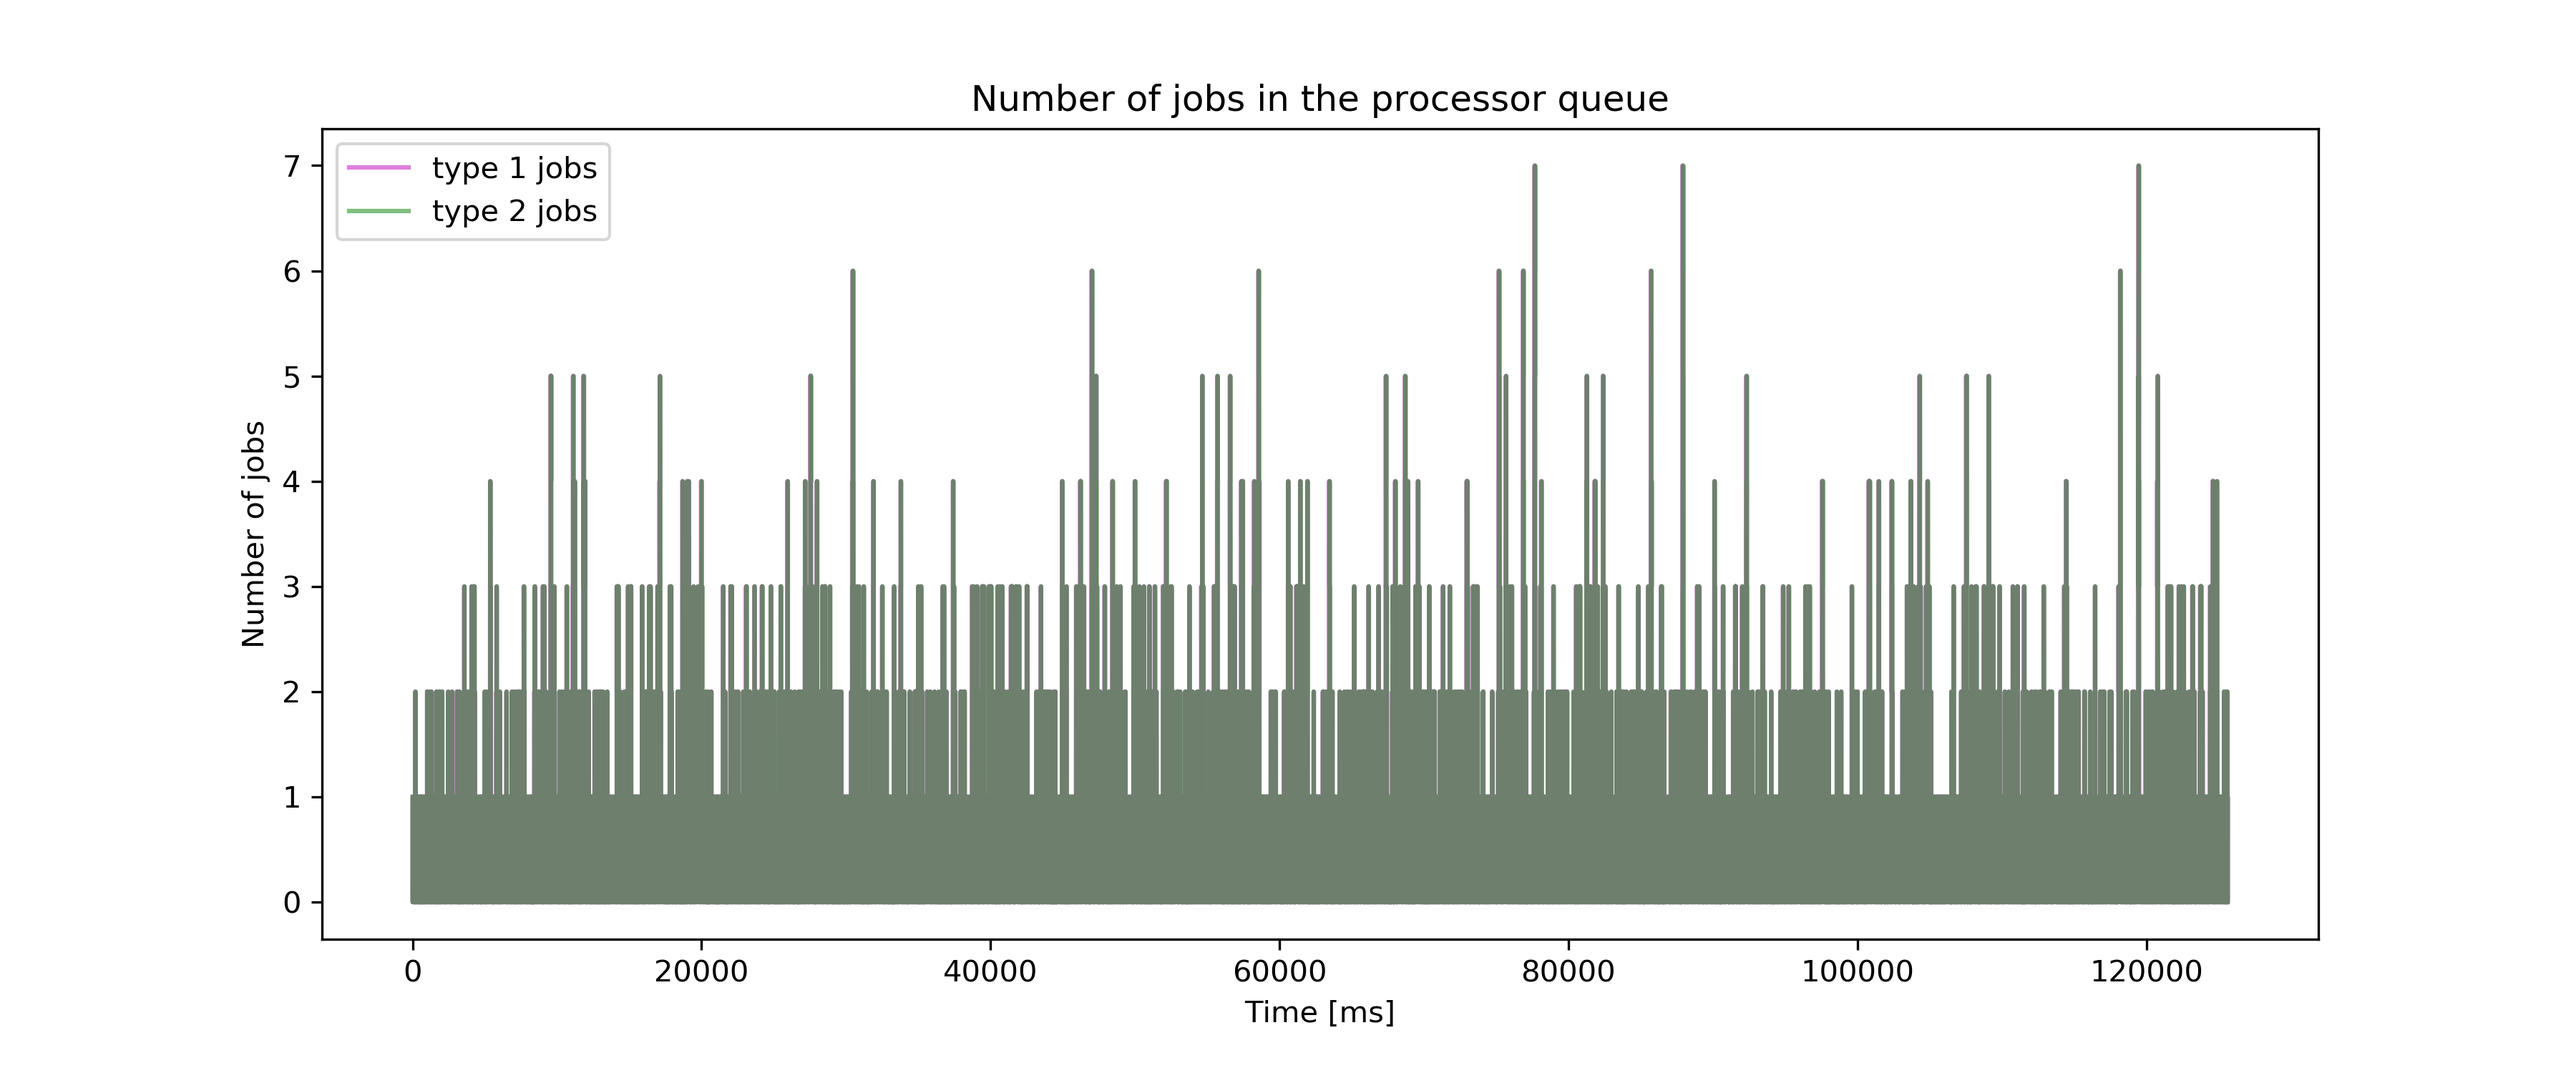
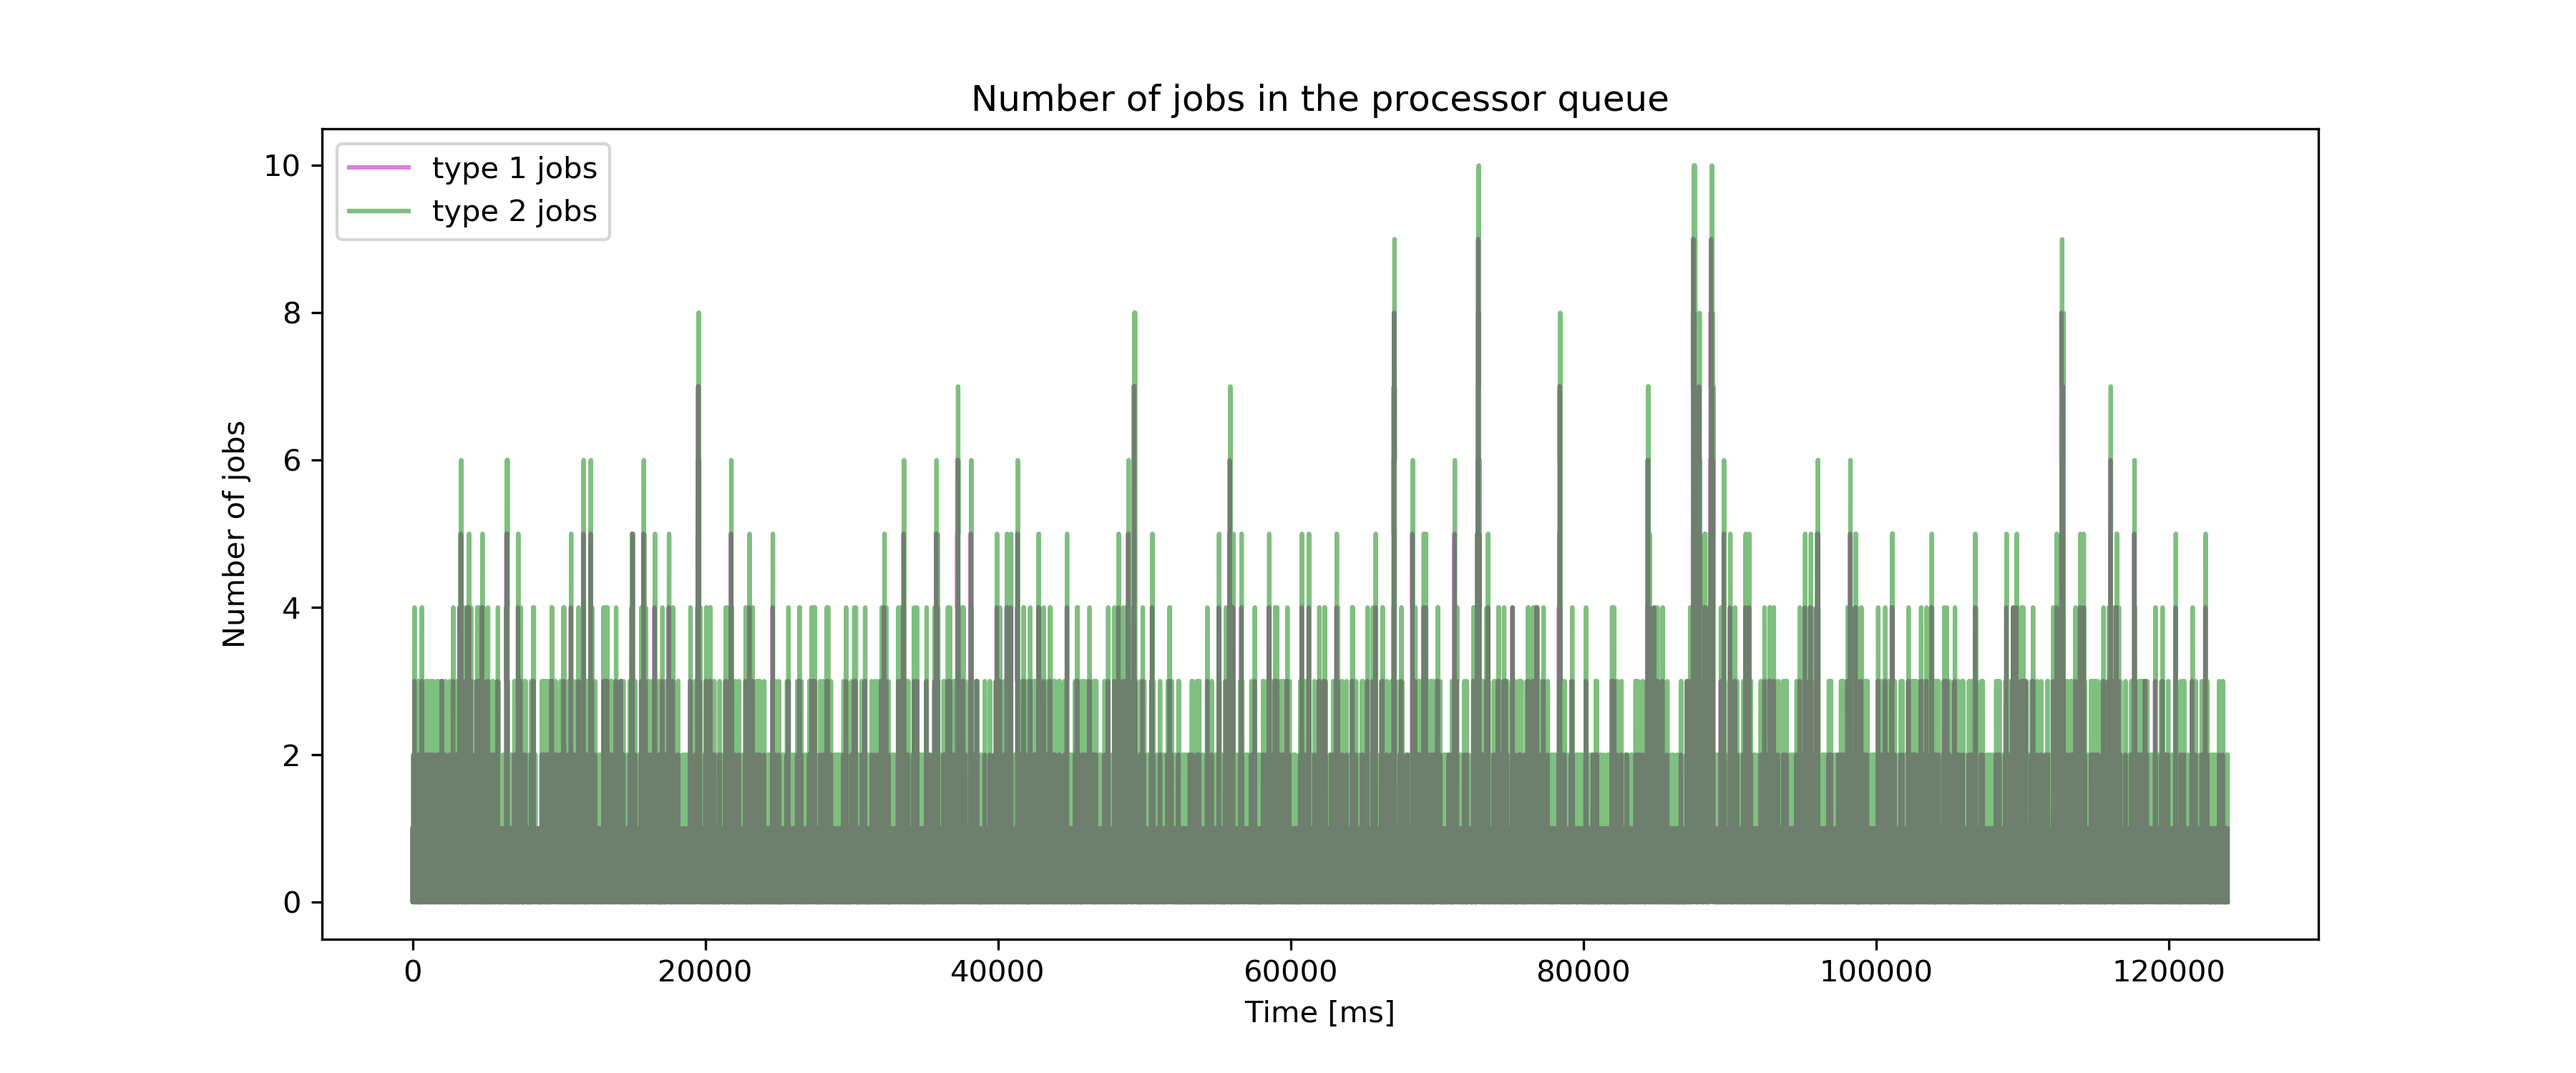
added last part of q1

diff --git a/hw3/server.py b/hw3/server.py
@@ -73,6 +73,8 @@ class Server():
         num_job_served = 0
         arrival_time = 0
         last_end_service_time = 0
+        response_time_t1 = []
+        response_time_t2 = []
         while num_job_arrived < self.max_req or self.job_scheduler.is_not_empty():
 
             if num_job_arrived < self.max_req:
@@ -97,6 +99,9 @@ class Server():
             
             if curr_type_job == 1:
 
+                # retrieve arrival time
+                arrival_time_t1 = service_time
+
                 # make sure there is no other job going on
                 service_time = max(service_time, last_end_service_time)
                 self.update_buffer(1, service_time, 'delete')
@@ -106,7 +111,7 @@ class Server():
                 
                 # update buffer & job scheduler
                 self.update_buffer(2, end_service_time_t1, 'add')
-                self.job_scheduler.add_job(2, last_end_service_time)
+                self.job_scheduler.add_job(2, end_service_time_t1)
 
                 # debug
                 debug('1) end service time t1: {:.3f}, last end service time: {:.3f}' \
@@ -115,7 +120,13 @@ class Server():
                 # update
                 last_end_service_time = end_service_time_t1
 
+                # add corresponding response time
+                response_time_t1.append(end_service_time_t1-arrival_time_t1)
+
             elif curr_type_job == 2:
+
+                # retrieve arrival time
+                arrival_time_t2 = service_time
 
                 # make sure there is no other job going on
                 service_time = max(service_time, last_end_service_time)
@@ -135,9 +146,8 @@ class Server():
                 num_job_served += 1
                 self.history_num_job_served.append((end_service_time_t2, num_job_served))
             
-                # debug
-                debug('2) end service time t2: {:.3f}, last end service time: {:.3f}' \
-                    .format(end_service_time_t2, last_end_service_time))
+                # add correspoding response time
+                response_time_t2.append(end_service_time_t2-arrival_time_t2)
         
             # debug
             debug('-------')
@@ -148,5 +158,5 @@ class Server():
         buffer_info_t1, buffer_info_t2 = self.process_buffer()
 
         return self.history_num_job_arrived, self.history_num_job_served, \
-            buffer_info_t1, buffer_info_t2
+            buffer_info_t1, buffer_info_t2, np.mean(response_time_t1), np.mean(response_time_t2)
 
